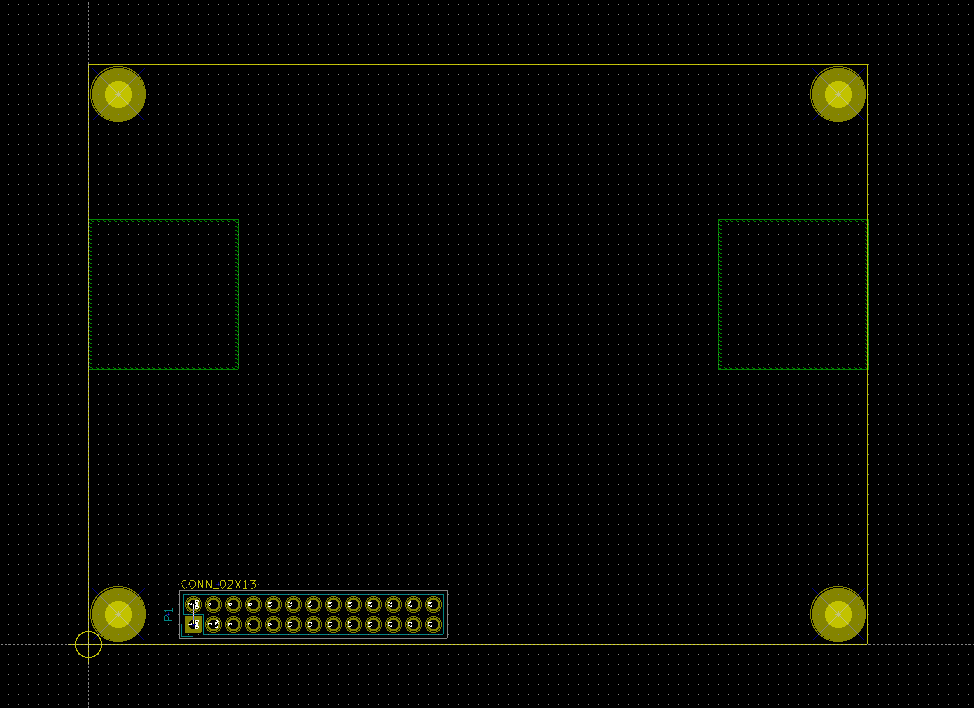
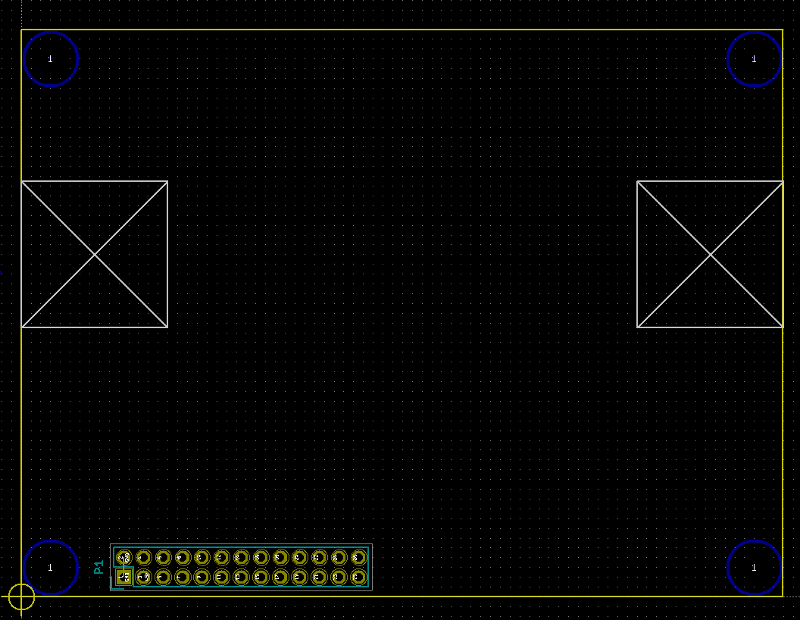
Updates for the Minnowboard LS Lure template
- Switches to standard mounting holes.
- Removes local footprint library.
- Locks the mounting holes.
- Locks base board connector.
- Removes local library directory from project file.
- Denotes bottom side keepouts with Dwgs.User.
- Adds note in Cmts.User about keepouts.
- Updates image and html text.

Changed region(s): [[0.0, 0.0306, 1.0, 1.0]]

diff --git a/template/minnowboard-ls-lure/meta/info.html b/template/minnowboard-ls-lure/meta/info.html
@@ -17,7 +17,10 @@ with the low speed connector and mounting holes placed correctly to align the tw
 The board outline looks like the following:
 </P>
 <P><IMG SRC="brd.png" NAME="brd" ALIGN=BOTTOM BORDER=0>
-<BR><BR><BR><BR>
+<BR>
+NOTE: The outlines in the Dwgs.User layer denote areas that should not contain through-hole or
+bottom side components to avoid connectors on the base board.
+<BR><BR><BR>
 </P>
 <P>Copyright (c) 2016 Michael Welling</P>
 </BODY>
